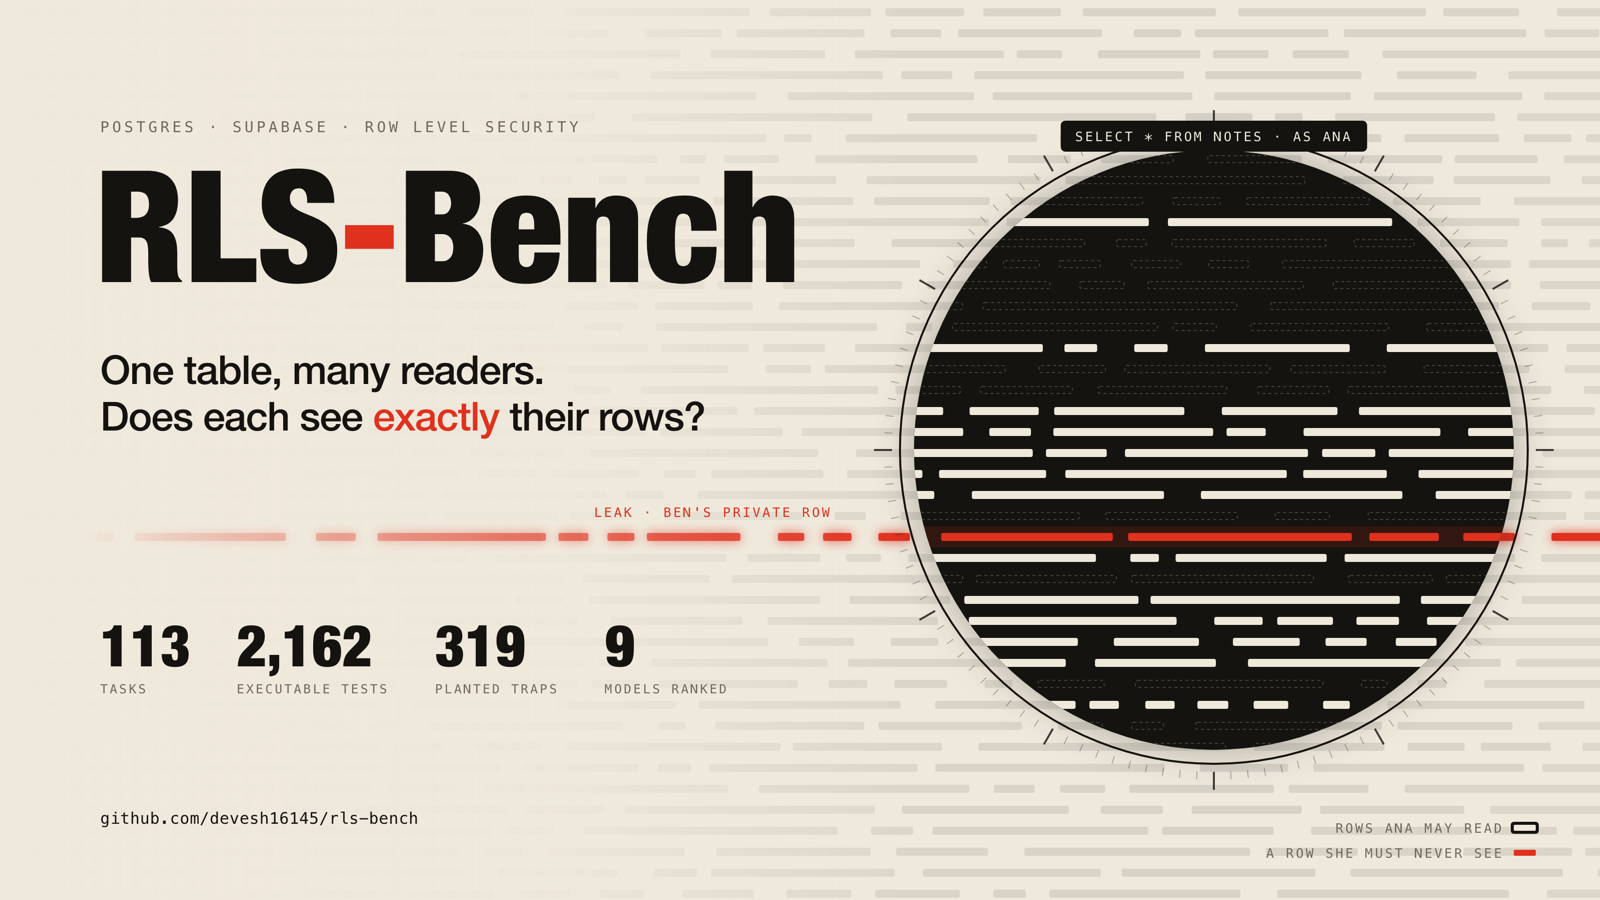
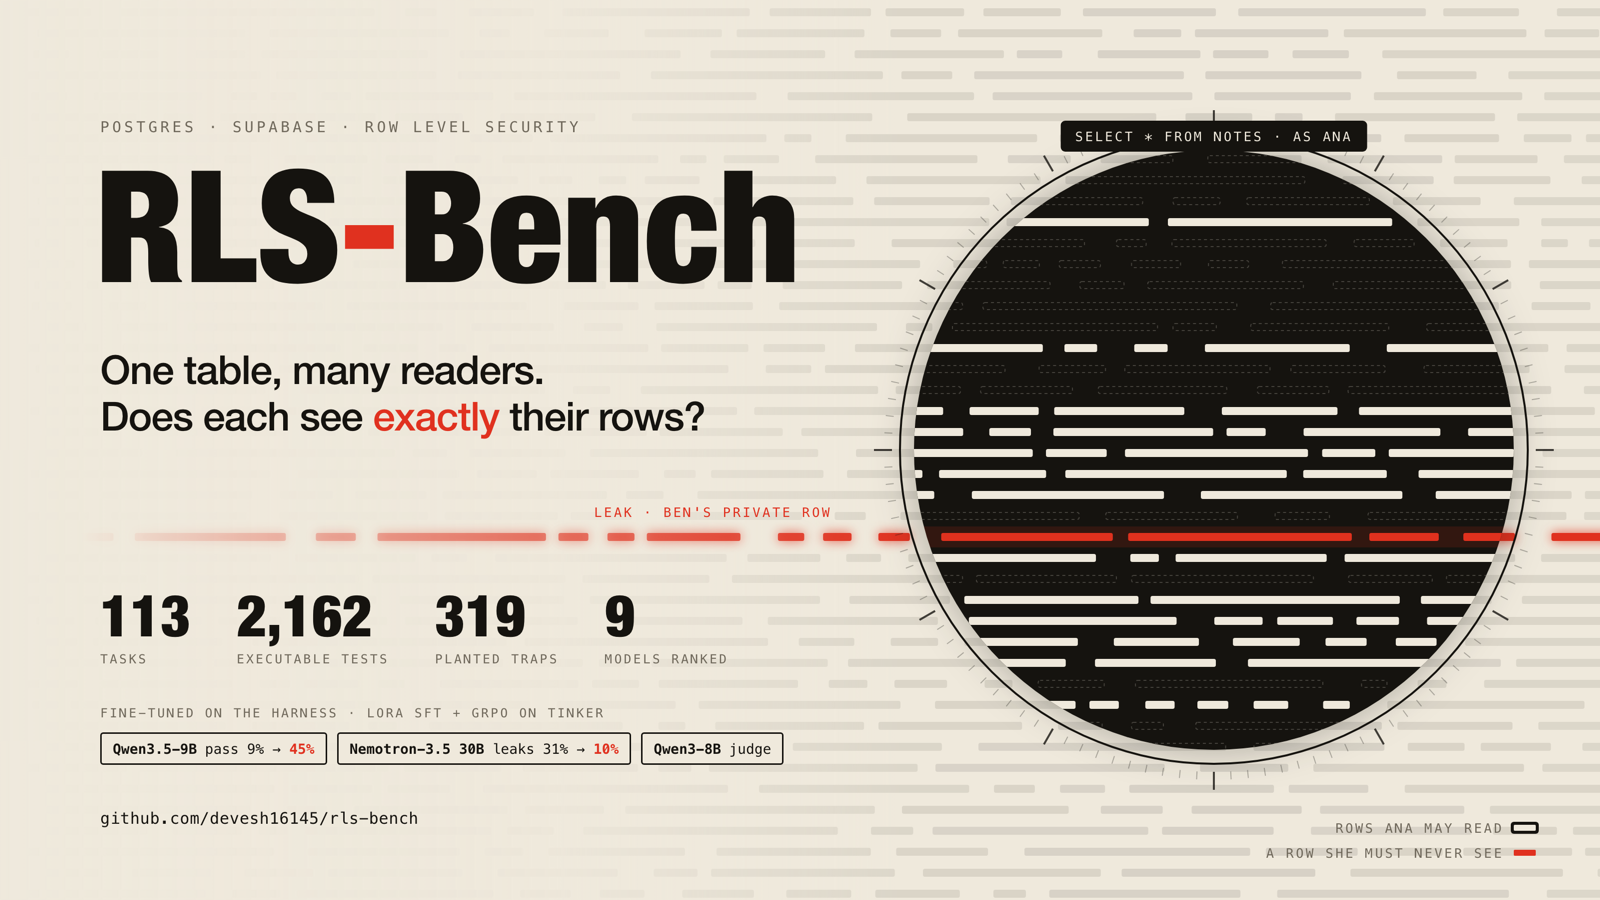
Cover: add the fine-tuned models and their headline test results

Changed region(s): [[0.0625, 0.6533, 0.5, 0.84], [0.375, 0.6533, 0.4375, 0.7778]]

diff --git a/docs/cover/cover.html b/docs/cover/cover.html
@@ -28,9 +28,15 @@
   h1 span { color: var(--red); }
   .lede { position: absolute; left: 100px; top: 346px; width: 680px; font-size: 40px; line-height: 1.16; font-weight: 500; letter-spacing: -0.02em; }
   .lede em { font-style: normal; color: var(--red); }
-  .stats { position: absolute; left: 100px; top: 616px; display: flex; gap: 46px; }
+  .stats { position: absolute; left: 100px; top: 586px; display: flex; gap: 46px; }
   .stats b { display: block; font-size: 58px; line-height: 1; }
   .stats span { display: block; margin-top: 8px; font-size: 12.5px; letter-spacing: 0.16em; text-transform: uppercase; color: var(--muted); white-space: nowrap; }
+  .tuned { position: absolute; left: 100px; top: 706px; }
+  .tuned .lab { font-size: 12.5px; letter-spacing: 0.16em; text-transform: uppercase; color: var(--muted); }
+  .tuned .models { display: flex; gap: 10px; margin-top: 12px; }
+  .tuned .models span { background: var(--bg); border: 1.5px solid var(--cream); border-radius: 3px; padding: 7px 11px 6px; font-size: 14px; white-space: nowrap; }
+  .tuned .models b { font-weight: bold; margin-right: 8px; }
+  .tuned .models em { font-style: normal; color: var(--red); font-weight: bold; }
   .url { position: absolute; left: 100px; bottom: 72px; font-size: 16px; color: var(--cream); letter-spacing: 0.02em; }
 
   .chip { position: absolute; transform: translate(-50%, -50%); background: var(--lens); color: var(--lens-ink); box-shadow: 0 0 0 1.5px var(--cream);
@@ -51,6 +57,14 @@
     <div><b class="display">2,162</b><span class="mono">executable tests</span></div>
     <div><b class="display">319</b><span class="mono">planted traps</span></div>
     <div><b class="display">9</b><span class="mono">models ranked</span></div>
+  </div>
+  <div class="tuned mono">
+    <div class="lab">Fine-tuned on the harness · LoRA SFT + GRPO on Tinker</div>
+    <div class="models">
+      <span><b>Qwen3.5-9B</b>pass 9% → <em>45%</em></span>
+      <span><b>Nemotron-3.5 30B</b>leaks 31% → <em>10%</em></span>
+      <span><b>Qwen3-8B</b>judge</span>
+    </div>
   </div>
   <div class="url mono">github.com/devesh16145/rls-bench</div>
 
